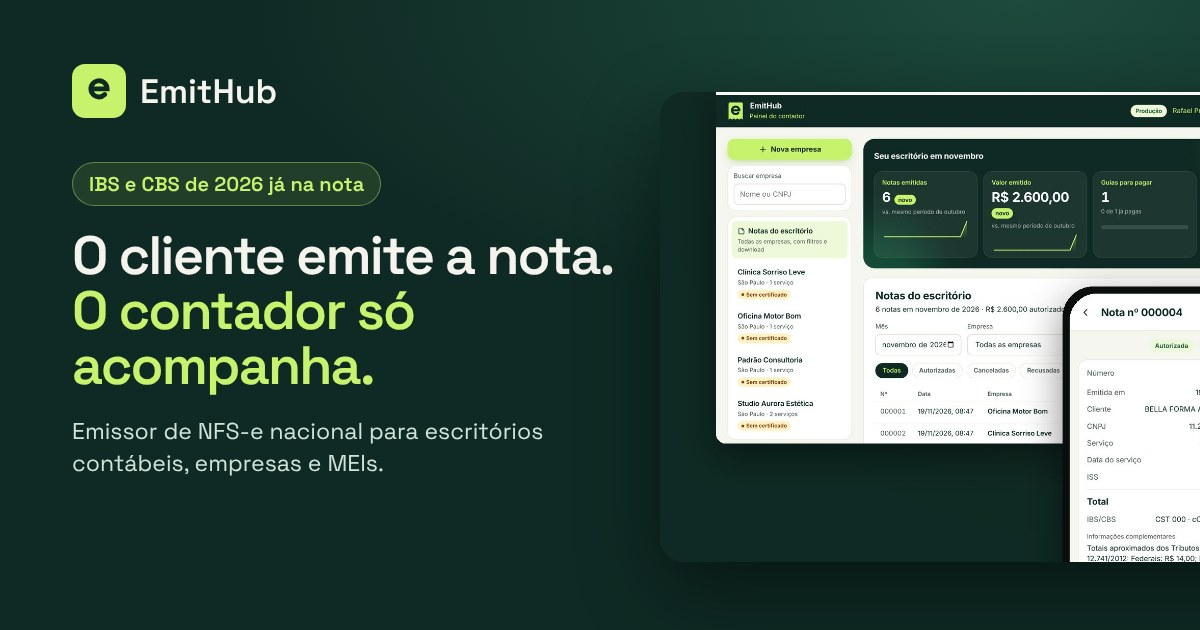
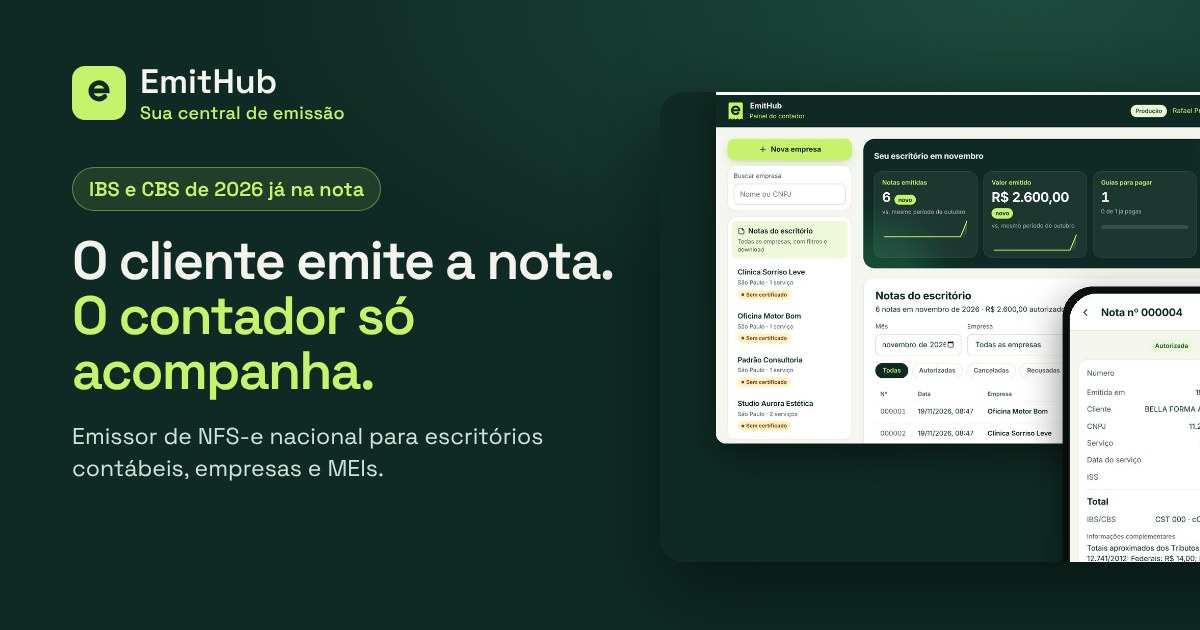
Slogan: EmitHub. Sua central de emissão.
Na tela de entrar, na abertura do app, no nome do app instalado, no título e na prévia
do site, no rodapé da página inicial e dos PDFs.

Claude-Session: https://claude.ai/code/session_01Xp7JTVJgeKLDRkFbxrv3bW

diff --git a/app/web/index.html b/app/web/index.html
@@ -7,15 +7,15 @@
 <head>
 <meta charset="utf-8">
 <meta name="viewport" content="width=device-width, initial-scale=1, viewport-fit=cover">
-<title>EmitHub: emissor de nota de serviço para escritórios contábeis</title>
+<title>EmitHub · Sua central de emissão de notas fiscais para escritórios contábeis</title>
 <meta name="description" content="O contador cadastra a empresa e libera os serviços; o cliente emite a NFS-e pelo celular, direto no Emissor Nacional, com IBS e CBS preenchidos.">
 <meta property="og:type" content="website">
 <meta property="og:site_name" content="EmitHub">
 <meta property="og:locale" content="pt_BR">
-<meta property="og:title" content="EmitHub · Emissor de NFS-e para escritórios contábeis">
+<meta property="og:title" content="EmitHub · Sua central de emissão">
 <meta property="og:description" content="O contador libera os serviços e o cliente emite a NFS-e pelo celular, direto no Emissor Nacional, sem escolher código. IBS e CBS de 2026 já na nota.">
 <meta property="og:url" content="https://emitta.onrender.com/">
-<meta property="og:image" content="https://emitta.onrender.com/static/site/img/compartilhar.jpg?v=53">
+<meta property="og:image" content="https://emitta.onrender.com/static/site/img/compartilhar.jpg?v=54">
 <meta property="og:image:width" content="1200">
 <meta property="og:image:height" content="630">
 <meta property="og:image:alt" content="EmitHub: o cliente emite a nota, o contador só acompanha">
@@ -51,7 +51,7 @@
 /* Títulos sem palavra partida com hífen ("escri-tórios"): a palavra inteira vai para a linha de baixo. */
 h1, h2, h3, h4 { hyphens: manual; -webkit-hyphens: manual; }
 </style>
-<script src="/static/site/inicio.js?v=53"></script>
+<script src="/static/site/inicio.js?v=54"></script>
 <script src="/static/site/assets/backgrounds/backgrounds.js"></script>
 <link rel="modulepreload" href="/static/site/assets/moments/moments.js">
 <link rel="modulepreload" href="/static/site/assets/moments/lib.js">
@@ -160,7 +160,7 @@ h1, h2, h3, h4 { hyphens: manual; -webkit-hyphens: manual; }
         <div class="btn-row"><a class="btn btn--primary" href="/entrar?criar=1">Criar conta de contador</a><a class="btn btn--secondary" href="#contador">Ver como funciona</a></div>
       </div>
       <div class="hero__media span-6 start-7">
-        <img src="/static/site/img/hero.jpg?v=53" alt="Painel do contador com as notas do escritório e, à frente, uma nota autorizada no celular" style="--ly-pos: 30% 30%" fetchpriority="high">
+        <img src="/static/site/img/hero.jpg?v=54" alt="Painel do contador com as notas do escritório e, à frente, uma nota autorizada no celular" style="--ly-pos: 30% 30%" fetchpriority="high">
         <div class="ly-float">
           <div class="ly-float__row"><span class="ly-live">Autorizada</span><span>Nota nº 000004</span></div>
           <div class="ly-float__title">Limpeza de pele, R$ 350,00</div>
@@ -182,7 +182,7 @@ h1, h2, h3, h4 { hyphens: manual; -webkit-hyphens: manual; }
         <a class="link" href="#empresa">Ver como o cliente emite</a>
       </div>
       <div class="frame frame--split span-6 start-7">
-        <img class="frame__img" src="/static/site/img/contador.jpg?v=53" alt="Painel do contador com a empresa Studio Aurora Estética, as etapas para deixá-la pronta e os serviços liberados" loading="lazy">
+        <img class="frame__img" src="/static/site/img/contador.jpg?v=54" alt="Painel do contador com a empresa Studio Aurora Estética, as etapas para deixá-la pronta e os serviços liberados" loading="lazy">
       </div>
     </div>
   </section>
@@ -198,19 +198,19 @@ h1, h2, h3, h4 { hyphens: manual; -webkit-hyphens: manual; }
           <span class="step-num">1</span>
           <h3 class="t-card">Escolhe o serviço</h3>
           <p>Só aparecem os serviços que você liberou para a empresa.</p>
-          <div class="panel"><img src="/static/site/img/passo1.jpg?v=53" alt="Lista de serviços liberados, com Limpeza de pele marcada" loading="lazy"></div>
+          <div class="panel"><img src="/static/site/img/passo1.jpg?v=54" alt="Lista de serviços liberados, com Limpeza de pele marcada" loading="lazy"></div>
         </article>
         <article class="card card--row card--open span-4">
           <span class="step-num">2</span>
           <h3 class="t-card">Informa o cliente e o valor</h3>
           <p>Com CNPJ, o nome do cliente vem preenchido pela Receita.</p>
-          <div class="panel"><img src="/static/site/img/passo2.jpg?v=53" alt="CNPJ do cliente digitado e o nome preenchido pela Receita" loading="lazy"></div>
+          <div class="panel"><img src="/static/site/img/passo2.jpg?v=54" alt="CNPJ do cliente digitado e o nome preenchido pela Receita" loading="lazy"></div>
         </article>
         <article class="card card--row card--open span-4">
           <span class="step-num">3</span>
           <h3 class="t-card">Toca em Emitir nota</h3>
           <p>A nota vai ao Emissor Nacional e volta autorizada em segundos.</p>
-          <div class="panel"><img src="/static/site/img/passo3.jpg?v=53" alt="Tela de nota autorizada, número 000004" loading="lazy"></div>
+          <div class="panel"><img src="/static/site/img/passo3.jpg?v=54" alt="Tela de nota autorizada, número 000004" loading="lazy"></div>
         </article>
       </div>
     </div>
@@ -232,22 +232,22 @@ h1, h2, h3, h4 { hyphens: manual; -webkit-hyphens: manual; }
         <article class="card card--row card--open span-6">
           <h3 class="t-card">Preenche IBS e CBS</h3>
           <p>A classificação e o NBS de cada serviço saem da tabela oficial do Anexo VIII.</p>
-          <div class="panel"><img src="/static/site/img/ibs.jpg?v=53" alt="Linha IBS/CBS da nota com CST 000 e cClassTrib 000001" loading="lazy"></div>
+          <div class="panel"><img src="/static/site/img/ibs.jpg?v=54" alt="Linha IBS/CBS da nota com CST 000 e cClassTrib 000001" loading="lazy"></div>
         </article>
         <article class="card card--row card--open span-6">
           <h3 class="t-card">Soma os tributos da nota</h3>
           <p>Federais, estaduais e municipais, como pede a Lei 12.741, nas informações complementares.</p>
-          <div class="panel"><img src="/static/site/img/lei.jpg?v=53" alt="Informações complementares com os totais aproximados dos tributos" loading="lazy"></div>
+          <div class="panel"><img src="/static/site/img/lei.jpg?v=54" alt="Informações complementares com os totais aproximados dos tributos" loading="lazy"></div>
         </article>
         <article class="card card--row card--open span-6">
           <h3 class="t-card">Sugere serviços pelo CNAE</h3>
           <p>A atividade do cartão CNPJ vira a lista de serviços que a empresa presta.</p>
-          <div class="panel"><img src="/static/site/img/cnae.jpg?v=53" alt="Serviços sugeridos pela atividade 96.02-5-02 da empresa" loading="lazy"></div>
+          <div class="panel"><img src="/static/site/img/cnae.jpg?v=54" alt="Serviços sugeridos pela atividade 96.02-5-02 da empresa" loading="lazy"></div>
         </article>
         <article class="card card--row card--open span-6">
           <h3 class="t-card">Baixa as notas do mês</h3>
           <p>PDFs e XMLs de todas as empresas num arquivo só, no padrão nacional.</p>
-          <div class="panel"><img src="/static/site/img/zip.jpg?v=53" alt="Notas do escritório com filtros e o botão Baixar PDFs e XMLs" loading="lazy"></div>
+          <div class="panel"><img src="/static/site/img/zip.jpg?v=54" alt="Notas do escritório com filtros e o botão Baixar PDFs e XMLs" loading="lazy"></div>
         </article>
       </div>
     </div>
@@ -266,7 +266,7 @@ h1, h2, h3, h4 { hyphens: manual; -webkit-hyphens: manual; }
         <a class="link" href="#perguntas">Ver as perguntas frequentes</a>
       </div>
       <div class="frame frame--split span-6 start-7">
-        <img class="frame__img" src="/static/site/img/guias.jpg?v=53" alt="App da empresa com o aviso de um imposto para pagar e a guia DAS de R$ 312,40" loading="lazy">
+        <img class="frame__img" src="/static/site/img/guias.jpg?v=54" alt="App da empresa com o aviso de um imposto para pagar e a guia DAS de R$ 312,40" loading="lazy">
       </div>
     </div>
   </section>
@@ -331,7 +331,7 @@ h1, h2, h3, h4 { hyphens: manual; -webkit-hyphens: manual; }
       <div class="grid">
         <div class="span-4 stack-5">
           <a class="nav__logo" href="#top"><img src="/static/icone.svg" alt="" aria-hidden="true">EmitHub</a>
-          <p class="footer__lede">Nota de serviço para contadores e seus clientes.</p>
+          <p class="footer__lede"><strong>Sua central de emissão.</strong> Nota de serviço para contadores e seus clientes.</p>
         </div>
         <div class="span-2 start-7 footer__col"><h4>Para o contador</h4><ul><li><a href="#contador">Liberar serviços</a></li><li><a href="#guias">Enviar guias</a></li></ul></div>
         <div class="span-2 footer__col"><h4>Para a empresa</h4><ul><li><a href="#empresa">Emitir a nota</a></li><li><a href="/entrar?perfil=empresa">Entrar como empresa ou MEI</a></li></ul></div>
@@ -344,7 +344,7 @@ h1, h2, h3, h4 { hyphens: manual; -webkit-hyphens: manual; }
   </div>
 </footer>
 <script type="module" src="/static/site/assets/system.js"></script>
-<script src="/static/site/aviso.js?v=53" defer></script>
-<script src="/static/pwa.js?v=53"></script>
+<script src="/static/site/aviso.js?v=54" defer></script>
+<script src="/static/pwa.js?v=54"></script>
 </body>
 </html>

diff --git a/app/web/entrar.html b/app/web/entrar.html
@@ -15,21 +15,23 @@
 <meta property="og:type" content="website">
 <meta property="og:site_name" content="EmitHub">
 <meta property="og:locale" content="pt_BR">
-<meta property="og:title" content="Entrar · EmitHub">
+<meta property="og:title" content="EmitHub · Sua central de emissão">
 <meta property="og:description" content="Entre no EmitHub para emitir e acompanhar as notas de serviço.">
 <meta property="og:url" content="https://emitta.onrender.com/entrar">
-<meta property="og:image" content="https://emitta.onrender.com/static/site/img/compartilhar.jpg?v=53">
+<meta property="og:image" content="https://emitta.onrender.com/static/site/img/compartilhar.jpg?v=54">
 <meta property="og:image:width" content="1200">
 <meta property="og:image:height" content="630">
 <meta property="og:image:alt" content="EmitHub: o cliente emite a nota, o contador só acompanha">
 <meta name="twitter:card" content="summary_large_image">
 <link rel="preconnect" href="https://fonts.googleapis.com">
 <link rel="stylesheet" href="https://fonts.googleapis.com/css2?family=Inter:wght@400;500;600;700&family=Space+Grotesk:wght@500;600;700&display=swap">
-<link rel="stylesheet" href="/static/estilo.css?v=53">
+<link rel="stylesheet" href="/static/estilo.css?v=54">
 <style>
   body { background: var(--noite); min-height: 100vh; min-height: 100dvh; display: flex; flex-direction: column; align-items: center; padding: 32px 16px; }
   .marca { display: flex; align-items: center; gap: 12px; color: #fff; text-decoration: none; margin-bottom: 24px; }
   .marca:hover { color: #fff; }
+  .marca-texto { display: flex; flex-direction: column; line-height: 1.15; }
+  .slogan { font-size: 13px; font-weight: 500; color: #C6F36B; letter-spacing: .01em; }
   .nome { font-size: 20px; font-weight: 700; }
   .caixa { width: 100%; max-width: 420px; background: #fff; border-radius: 18px; padding: 28px 24px; display: flex; flex-direction: column; gap: 18px; }
   .caixa h1 { font-size: 22px; }
@@ -65,7 +67,7 @@
 </style>
 </head>
 <body>
-<a class="marca" href="/"><svg class="marca-svg" width="34" height="40" viewBox="17 10 66 78" aria-hidden="true"><path class="logo-papel" d="M27 14 H73 Q79 14 79 20 V84 L71.75 78.5 L64.5 84 L57.25 78.5 L50 84 L42.75 78.5 L35.5 84 L28.25 78.5 L21 84 V20 Q21 14 27 14 Z" fill="#C6F36B"/><path class="logo-e" pathLength="1" d="M35 46 H65 A15 15 0 1 0 60.6 56.6" fill="none" stroke="#0F2A24" stroke-width="8.5" stroke-linecap="round" stroke-linejoin="round"/></svg><span class="nome">EmitHub</span></a>
+<a class="marca" href="/"><svg class="marca-svg" width="34" height="40" viewBox="17 10 66 78" aria-hidden="true"><path class="logo-papel" d="M27 14 H73 Q79 14 79 20 V84 L71.75 78.5 L64.5 84 L57.25 78.5 L50 84 L42.75 78.5 L35.5 84 L28.25 78.5 L21 84 V20 Q21 14 27 14 Z" fill="#C6F36B"/><path class="logo-e" pathLength="1" d="M35 46 H65 A15 15 0 1 0 60.6 56.6" fill="none" stroke="#0F2A24" stroke-width="8.5" stroke-linecap="round" stroke-linejoin="round"/></svg><span class="marca-texto"><span class="nome">EmitHub</span><span class="slogan">Sua central de emissão</span></span></a>
 <main class="caixa" id="caixa" aria-live="polite"></main>
 <p class="rodape-seguro" id="rodape"></p>
 <p style="text-align:center;margin:14px 0 0"><button class="instalar" type="button" data-instalar hidden>Instalar o app no celular</button></p>
@@ -78,8 +80,8 @@
   </ol>
 </div>
 <a class="acesso-adm" href="/admin" aria-label="Administração" title="Administração"><svg width="14" height="14" viewBox="0 0 24 24" fill="none" stroke="currentColor" stroke-width="2" stroke-linecap="round" stroke-linejoin="round" aria-hidden="true"><path d="M12 3l7 3v5c0 4.5-3 8.5-7 10-4-1.5-7-5.5-7-10V6z"/></svg></a>
-<script src="/static/comum.js?v=53"></script>
-<script src="/static/entrar.js?v=53"></script>
-<script src="/static/pwa.js?v=53"></script>
+<script src="/static/comum.js?v=54"></script>
+<script src="/static/entrar.js?v=54"></script>
+<script src="/static/pwa.js?v=54"></script>
 </body>
 </html>

diff --git a/app/web/ajuda.html b/app/web/ajuda.html
@@ -15,15 +15,15 @@
 <meta property="og:title" content="Central de ajuda · EmitHub">
 <meta property="og:description" content="Respostas rápidas sobre o EmitHub: certificado, serviços, emissão de NFS-e, impostos e conta.">
 <meta property="og:url" content="https://emitta.onrender.com/ajuda">
-<meta property="og:image" content="https://emitta.onrender.com/static/site/img/compartilhar.jpg?v=53">
+<meta property="og:image" content="https://emitta.onrender.com/static/site/img/compartilhar.jpg?v=54">
 <meta property="og:image:width" content="1200">
 <meta property="og:image:height" content="630">
 <meta property="og:image:alt" content="EmitHub: o cliente emite a nota, o contador só acompanha">
 <meta name="twitter:card" content="summary_large_image">
 <link rel="preconnect" href="https://fonts.googleapis.com">
 <link rel="stylesheet" href="https://fonts.googleapis.com/css2?family=Inter:wght@400;500;600;700&family=Space+Grotesk:wght@500;600;700&display=swap">
-<link rel="stylesheet" href="/static/estilo.css?v=53">
-<link rel="stylesheet" href="/static/paginas.css?v=53">
+<link rel="stylesheet" href="/static/estilo.css?v=54">
+<link rel="stylesheet" href="/static/paginas.css?v=54">
 </head>
 <body class="pagina-apoio">
 <header class="apoio-topo">
@@ -58,7 +58,7 @@
   <span>© 2026 EmitHub · lav.code</span>
   <nav aria-label="Links"><a href="/ajuda">Central de ajuda</a><a href="/termos">Termos de uso</a><a href="/privacidade">Privacidade</a></nav>
 </div></footer>
-<script src="/static/paginas.js?v=53"></script>
-<script src="/static/ajuda.js?v=53"></script>
+<script src="/static/paginas.js?v=54"></script>
+<script src="/static/ajuda.js?v=54"></script>
 </body>
 </html>

diff --git a/app/web/admin.html b/app/web/admin.html
@@ -14,7 +14,7 @@
 <title>EmitHub · Administração</title>
 <link rel="preconnect" href="https://fonts.googleapis.com">
 <link rel="stylesheet" href="https://fonts.googleapis.com/css2?family=Inter:wght@400;500;600;700&family=Space+Grotesk:wght@500;600;700&display=swap">
-<link rel="stylesheet" href="/static/estilo.css?v=53">
+<link rel="stylesheet" href="/static/estilo.css?v=54">
 <style>
   .topo { display: flex; flex-wrap: wrap; align-items: center; justify-content: space-between; gap: 12px; padding: 14px max(16px, calc((100% - 1180px) / 2 + 16px)); background: var(--noite); color: #fff; }
   .marca { display: flex; align-items: center; gap: 12px; color: #fff; text-decoration: none; }
@@ -75,8 +75,8 @@
   <div style="display:flex;align-items:center;gap:12px;flex-wrap:wrap" id="topo-acoes"></div>
 </header>
 <main id="principal" aria-live="polite"></main>
-<script src="/static/comum.js?v=53"></script>
-<script src="/static/admin.js?v=53"></script>
-<script src="/static/pwa.js?v=53"></script>
+<script src="/static/comum.js?v=54"></script>
+<script src="/static/admin.js?v=54"></script>
+<script src="/static/pwa.js?v=54"></script>
 </body>
 </html>

diff --git a/app/web/painel.html b/app/web/painel.html
@@ -13,7 +13,7 @@
 <title>EmitHub · Painel do contador</title>
 <link rel="preconnect" href="https://fonts.googleapis.com">
 <link rel="stylesheet" href="https://fonts.googleapis.com/css2?family=Inter:wght@400;500;600;700&family=Space+Grotesk:wght@500;600;700&display=swap">
-<link rel="stylesheet" href="/static/estilo.css?v=53">
+<link rel="stylesheet" href="/static/estilo.css?v=54">
 <style>
   .topo {
     display: flex; flex-wrap: wrap; align-items: center; justify-content: space-between; gap: 12px;
@@ -202,9 +202,9 @@
   <aside class="gaveta-painel" role="dialog" aria-modal="true" aria-label="Menu" tabindex="-1"></aside>
 </div>
 
-<script src="/static/comum.js?v=53"></script>
-<script src="/static/assistente.js?v=53"></script>
-<script src="/static/painel.js?v=53"></script>
-<script src="/static/pwa.js?v=53"></script>
+<script src="/static/comum.js?v=54"></script>
+<script src="/static/assistente.js?v=54"></script>
+<script src="/static/painel.js?v=54"></script>
+<script src="/static/pwa.js?v=54"></script>
 </body>
 </html>

diff --git a/app/web/app.html b/app/web/app.html
@@ -13,7 +13,7 @@
 <title>EmitHub</title>
 <link rel="preconnect" href="https://fonts.googleapis.com">
 <link rel="stylesheet" href="https://fonts.googleapis.com/css2?family=Inter:wght@400;500;600;700&family=Space+Grotesk:wght@500;600;700&display=swap">
-<link rel="stylesheet" href="/static/estilo.css?v=53">
+<link rel="stylesheet" href="/static/estilo.css?v=54">
 <style>
   /* no iPhone com o app instalado, a barra de cima e o cabeçalho descem abaixo do relógio */
   body.app-celular { padding-top: 0 !important; }
@@ -205,9 +205,9 @@
 </head>
 <body class="app-celular">
 <div class="tela" id="tela" aria-live="polite"></div>
-<script src="/static/comum.js?v=53"></script>
-<script src="/static/assistente.js?v=53"></script>
-<script src="/static/app.js?v=53"></script>
-<script src="/static/pwa.js?v=53"></script>
+<script src="/static/comum.js?v=54"></script>
+<script src="/static/assistente.js?v=54"></script>
+<script src="/static/app.js?v=54"></script>
+<script src="/static/pwa.js?v=54"></script>
 </body>
 </html>

diff --git a/app/web/privacidade.html b/app/web/privacidade.html
@@ -11,8 +11,8 @@
 <title>Política de privacidade · EmitHub</title>
 <link rel="preconnect" href="https://fonts.googleapis.com">
 <link rel="stylesheet" href="https://fonts.googleapis.com/css2?family=Inter:wght@400;500;600;700&family=Space+Grotesk:wght@500;600;700&display=swap">
-<link rel="stylesheet" href="/static/estilo.css?v=53">
-<link rel="stylesheet" href="/static/paginas.css?v=53">
+<link rel="stylesheet" href="/static/estilo.css?v=54">
+<link rel="stylesheet" href="/static/paginas.css?v=54">
 </head>
 <body class="pagina-apoio">
 <header class="apoio-topo">
@@ -44,6 +44,6 @@
   <span>© 2026 EmitHub · lav.code</span>
   <nav aria-label="Links"><a href="/ajuda">Central de ajuda</a><a href="/termos">Termos de uso</a><a href="/privacidade">Privacidade</a></nav>
 </div></footer>
-<script src="/static/paginas.js?v=53"></script>
+<script src="/static/paginas.js?v=54"></script>
 </body>
 </html>

diff --git a/app/web/termos.html b/app/web/termos.html
@@ -11,8 +11,8 @@
 <title>Termos de uso · EmitHub</title>
 <link rel="preconnect" href="https://fonts.googleapis.com">
 <link rel="stylesheet" href="https://fonts.googleapis.com/css2?family=Inter:wght@400;500;600;700&family=Space+Grotesk:wght@500;600;700&display=swap">
-<link rel="stylesheet" href="/static/estilo.css?v=53">
-<link rel="stylesheet" href="/static/paginas.css?v=53">
+<link rel="stylesheet" href="/static/estilo.css?v=54">
+<link rel="stylesheet" href="/static/paginas.css?v=54">
 </head>
 <body class="pagina-apoio">
 <header class="apoio-topo">
@@ -44,6 +44,6 @@
   <span>© 2026 EmitHub · lav.code</span>
   <nav aria-label="Links"><a href="/ajuda">Central de ajuda</a><a href="/termos">Termos de uso</a><a href="/privacidade">Privacidade</a></nav>
 </div></footer>
-<script src="/static/paginas.js?v=53"></script>
+<script src="/static/paginas.js?v=54"></script>
 </body>
 </html>

diff --git a/app/web/nao-encontrado.html b/app/web/nao-encontrado.html
@@ -11,8 +11,8 @@
 <title>Página não encontrada · EmitHub</title>
 <link rel="preconnect" href="https://fonts.googleapis.com">
 <link rel="stylesheet" href="https://fonts.googleapis.com/css2?family=Inter:wght@400;500;600;700&family=Space+Grotesk:wght@500;600;700&display=swap">
-<link rel="stylesheet" href="/static/estilo.css?v=53">
-<link rel="stylesheet" href="/static/paginas.css?v=53">
+<link rel="stylesheet" href="/static/estilo.css?v=54">
+<link rel="stylesheet" href="/static/paginas.css?v=54">
 <style>
   .nf { display: grid; place-items: center; padding: 56px 20px 72px; }
   .nf-caixa { max-width: 520px; text-align: center; display: flex; flex-direction: column; align-items: center; gap: 14px; }

diff --git a/app/web/sw.js b/app/web/sw.js
@@ -1,13 +1,13 @@
 // Service worker do EmitHub: deixa o app instalável e abre rápido.
 // Segurança: só guarda arquivos visuais (estilos, scripts, ícones) e as telas
 // de abertura e "sem internet". Nunca guarda notas, logins nem dados de empresas.
-const VERSAO = "emitta-v53";
+const VERSAO = "emitta-v54";
 const ESSENCIAIS = [
   "/abrir",
   "/offline",
-  "/static/estilo.css?v=53",
-  "/static/abrir.js?v=53",
-  "/static/pwa.js?v=53",
+  "/static/estilo.css?v=54",
+  "/static/abrir.js?v=54",
+  "/static/pwa.js?v=54",
   "/static/icone.svg",
   "/static/icones/icone-192.png",
   "/static/icones/icone-512.png",

diff --git a/app/web/abrir.html b/app/web/abrir.html
@@ -51,9 +51,9 @@
     </div>
   </div>
   <div class="nome">EmitHub</div>
-  <div class="frase">nota fiscal sem complicação</div>
+  <div class="frase">sua central de emissão</div>
 </main>
-<script src="/static/abrir.js?v=53"></script>
-<script src="/static/pwa.js?v=53"></script>
+<script src="/static/abrir.js?v=54"></script>
+<script src="/static/pwa.js?v=54"></script>
 </body>
 </html>

diff --git a/app/pdf_nota.py b/app/pdf_nota.py
@@ -211,7 +211,7 @@ def gerar_pdf(nota, cliente, ambiente: str, contato: dict | None = None) -> byte
                  _campo("Contato", " · ".join(x for x in (contato.get("telefone"), contato.get("email")) if x))]
         partes += _bloco("CONTABILIDADE RESPONSÁVEL", [linha], [meia, meia])
 
-    partes.append(Paragraph("Gerado pelo EmitHub", _E["rodape"]))
+    partes.append(Paragraph("Gerado pelo EmitHub · Sua central de emissão", _E["rodape"]))
 
     def marca_dagua(canvas, _doc):
         if not (sem_valor or cancelada):
